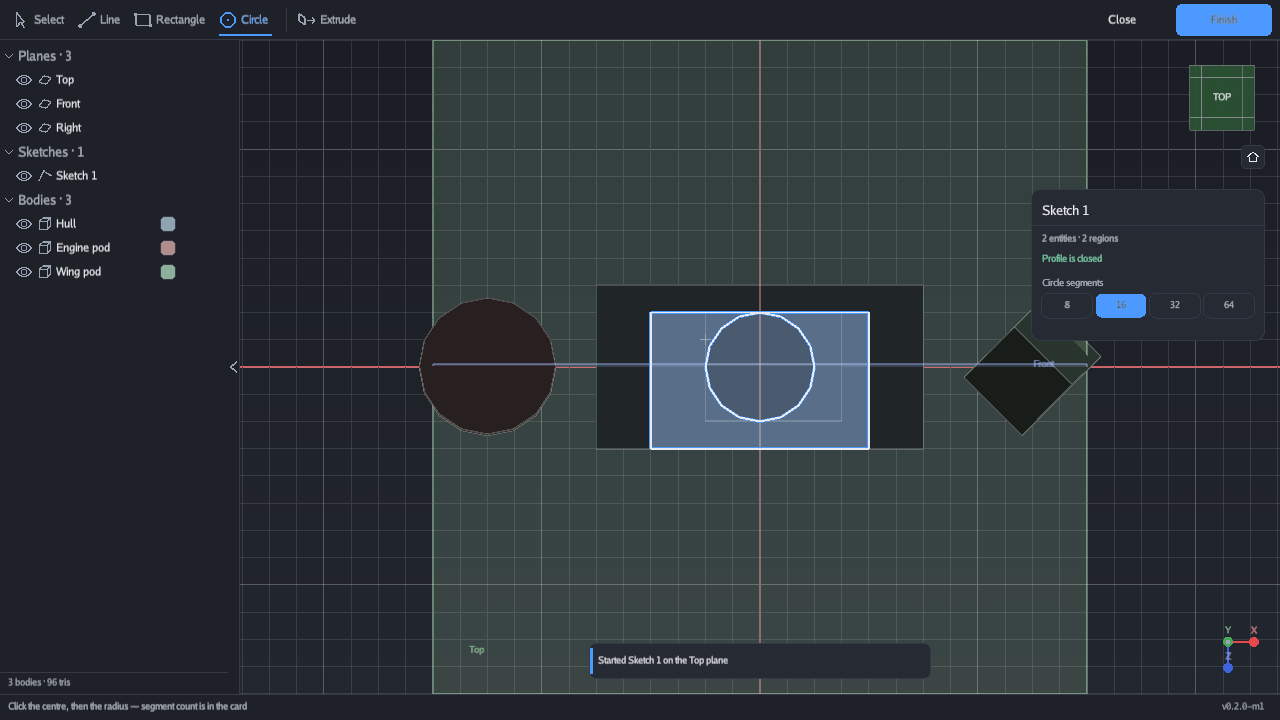
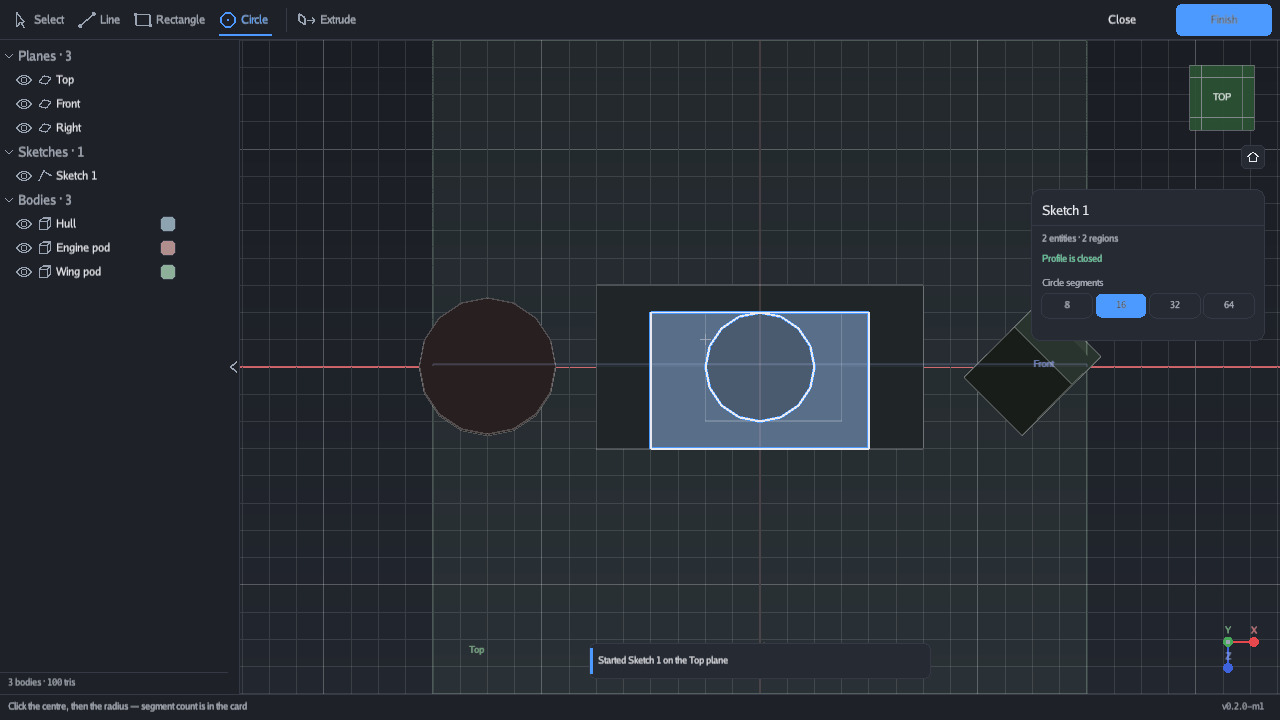
Fix: the extrude preview was dimmed along with everything else
Reported with a screenshot: mid-extrude the pending solid was as dark as
the model behind it.

Sketch and extrude modes fade the scene to 30% so the thing being worked
on stands out. The preview is a BodyDraw in the same list as every other
body, so it faded too — the scene was being dimmed to highlight something
that was also being dimmed. Meanwhile the three default planes were not
faded at all, so full-strength quads across the viewport were the
brightest thing in a shot meant to be about the extrusion.

BodyDraw grew a NoDim flag, set on the extrude and push/pull previews, and
the planes now honour the dim factor. What a mode is about is the one
thing at full strength; everything else, planes included, recedes.

Changed region(s): [[0.7188, 0.4889, 0.8125, 0.5194], [0.5625, 0.4889, 0.625, 0.5194], [0.4375, 0.4889, 0.4688, 0.5194]]

diff --git a/internal/render/renderer.go b/internal/render/renderer.go
@@ -173,7 +173,7 @@ func (r *Renderer) drawShadedPass(s *Scene) {
 		if b.GPU == nil || !b.GPU.uploaded || b.Alpha < 0.999 {
 			continue
 		}
-		r.drawBody(b, s.DimFactor)
+		r.drawBody(b, s.dimFor(b))
 	}
 }
 
@@ -190,7 +190,7 @@ func (r *Renderer) drawTranslucentPass(s *Scene, vp Viewport) {
 		if b.GPU == nil || !b.GPU.uploaded || b.Alpha >= 0.999 {
 			continue
 		}
-		r.drawBody(b, s.DimFactor)
+		r.drawBody(b, s.dimFor(b))
 	}
 	rl.EnableBackfaceCulling()
 }
@@ -213,6 +213,10 @@ func (r *Renderer) drawBody(b *BodyDraw, dim float64) {
 // drawPlanes renders the default planes as two-sided translucent quads with a
 // screen-constant border (SPEC-UX §5).
 func (r *Renderer) drawPlanes(s *Scene, vp Viewport) {
+	// The planes are part of "everything else": while a mode is dimming the
+	// scene to make one thing stand out, three full-strength quads across the
+	// viewport are exactly what it is trying to get out of the way.
+	dim := s.DimFactor
 	if len(s.Planes) == 0 {
 		return
 	}
@@ -234,6 +238,10 @@ func (r *Renderer) drawPlanes(s *Scene, vp Viewport) {
 		case p.Hovered:
 			fill = ui.WithAlpha(fill, uint8(min255(int(fill.A)*2)))
 			border = ui.WithAlpha(p.Color, 0xAA)
+		}
+		if dim > 0 && dim < 1 {
+			fill = fadeAlpha(fill, dim)
+			border = fadeAlpha(border, dim)
 		}
 		drawPolyFan(quad[:], fill)
 		for k := 0; k < 4; k++ {
@@ -266,8 +274,8 @@ func (r *Renderer) drawEdgePass(s *Scene, vp Viewport) {
 		if b.Selected {
 			col, width = ui.ColorAccent, EdgeSelectedWidth
 		}
-		if s.DimFactor > 0 && s.DimFactor < 1 {
-			col = fadeAlpha(col, s.DimFactor)
+		if d := s.dimFor(b); d > 0 && d < 1 {
+			col = fadeAlpha(col, d)
 		}
 		for _, e := range b.GPU.Edges {
 			a := b.Transform.TransformPoint(e.A)

diff --git a/internal/render/scene.go b/internal/render/scene.go
@@ -26,6 +26,20 @@ type BodyDraw struct {
 	SelectedFaces map[mesh.FaceUID]bool
 	Selected      bool // whole-body selection: accent silhouette
 	EdgeColor     color.RGBA
+
+	// NoDim exempts this body from the scene's DimFactor. A mode that dims the
+	// scene is dimming it to make one thing stand out, and that thing is
+	// usually a body in this list — dimming it along with everything else
+	// defeats the whole point.
+	NoDim bool
+}
+
+// dimFor is how far a body fades, honouring its exemption.
+func (s *Scene) dimFor(b *BodyDraw) float64 {
+	if b.NoDim {
+		return 1
+	}
+	return s.DimFactor
 }
 
 // PlaneDraw is one default plane, drawn as a bounded translucent quad with a

diff --git a/internal/app/extrudemode.go b/internal/app/extrudemode.go
@@ -466,6 +466,9 @@ func (a *App) extrudePreviewDraw() (render.BodyDraw, bool) {
 		Color:     model.AutoBodyColor(int(a.Doc().Seq.Body)),
 		Alpha:     PreviewAlpha,
 		Transform: geom.Identity(),
+		// The scene is dimmed so this stands out. Dimming it too would leave
+		// nothing to look at.
+		NoDim: true,
 	}, true
 }
 

diff --git a/internal/app/pushpull.go b/internal/app/pushpull.go
@@ -205,6 +205,7 @@ func (a *App) pushPullPreviewDraw() (render.BodyDraw, bool) {
 		Color:     col,
 		Alpha:     PreviewAlpha,
 		Transform: geom.Identity(),
+		NoDim:     true,
 	}, true
 }
 

diff --git a/PROGRESS.md b/PROGRESS.md
@@ -6,6 +6,30 @@
 
 ---
 
+## 2026-08-26 — Fix: the extrude preview was dimmed with everything else
+
+**Reported by the user, with a screenshot.** Mid-extrude, the pending solid was
+as dark as the model behind it and barely readable.
+
+Sketch and extrude modes fade the scene to 30% so the thing being worked on
+stands out (SPEC-UX §8.1). The preview solid is a `BodyDraw` in the same list as
+every other body, so it was faded along with them — the scene was being dimmed
+to highlight something that was also being dimmed. And the three default planes
+were not faded at all, so full-strength quads across the viewport were the
+brightest thing in a shot that was supposed to be about the extrusion.
+
+**Fixed:** `BodyDraw` grew a `NoDim` flag, set on the extrude and push/pull
+previews, and the planes now honour the scene's dim factor. What a mode is
+about is the one thing at full strength; everything else, planes included,
+recedes.
+
+**Verified:** rendered an extrude in progress on the user's scene — the prism
+is now unmistakably the brightest thing in the frame. Sketch mode re-checked:
+the sketch still reads first, and the plane quads no longer compete with it.
+Full suite green, goldens regenerated.
+
+---
+
 ## 2026-08-26 — Fixes: sketch and plane highlighting, sketch camera
 
 **Reported by the user, four things at once.** All four were real.
